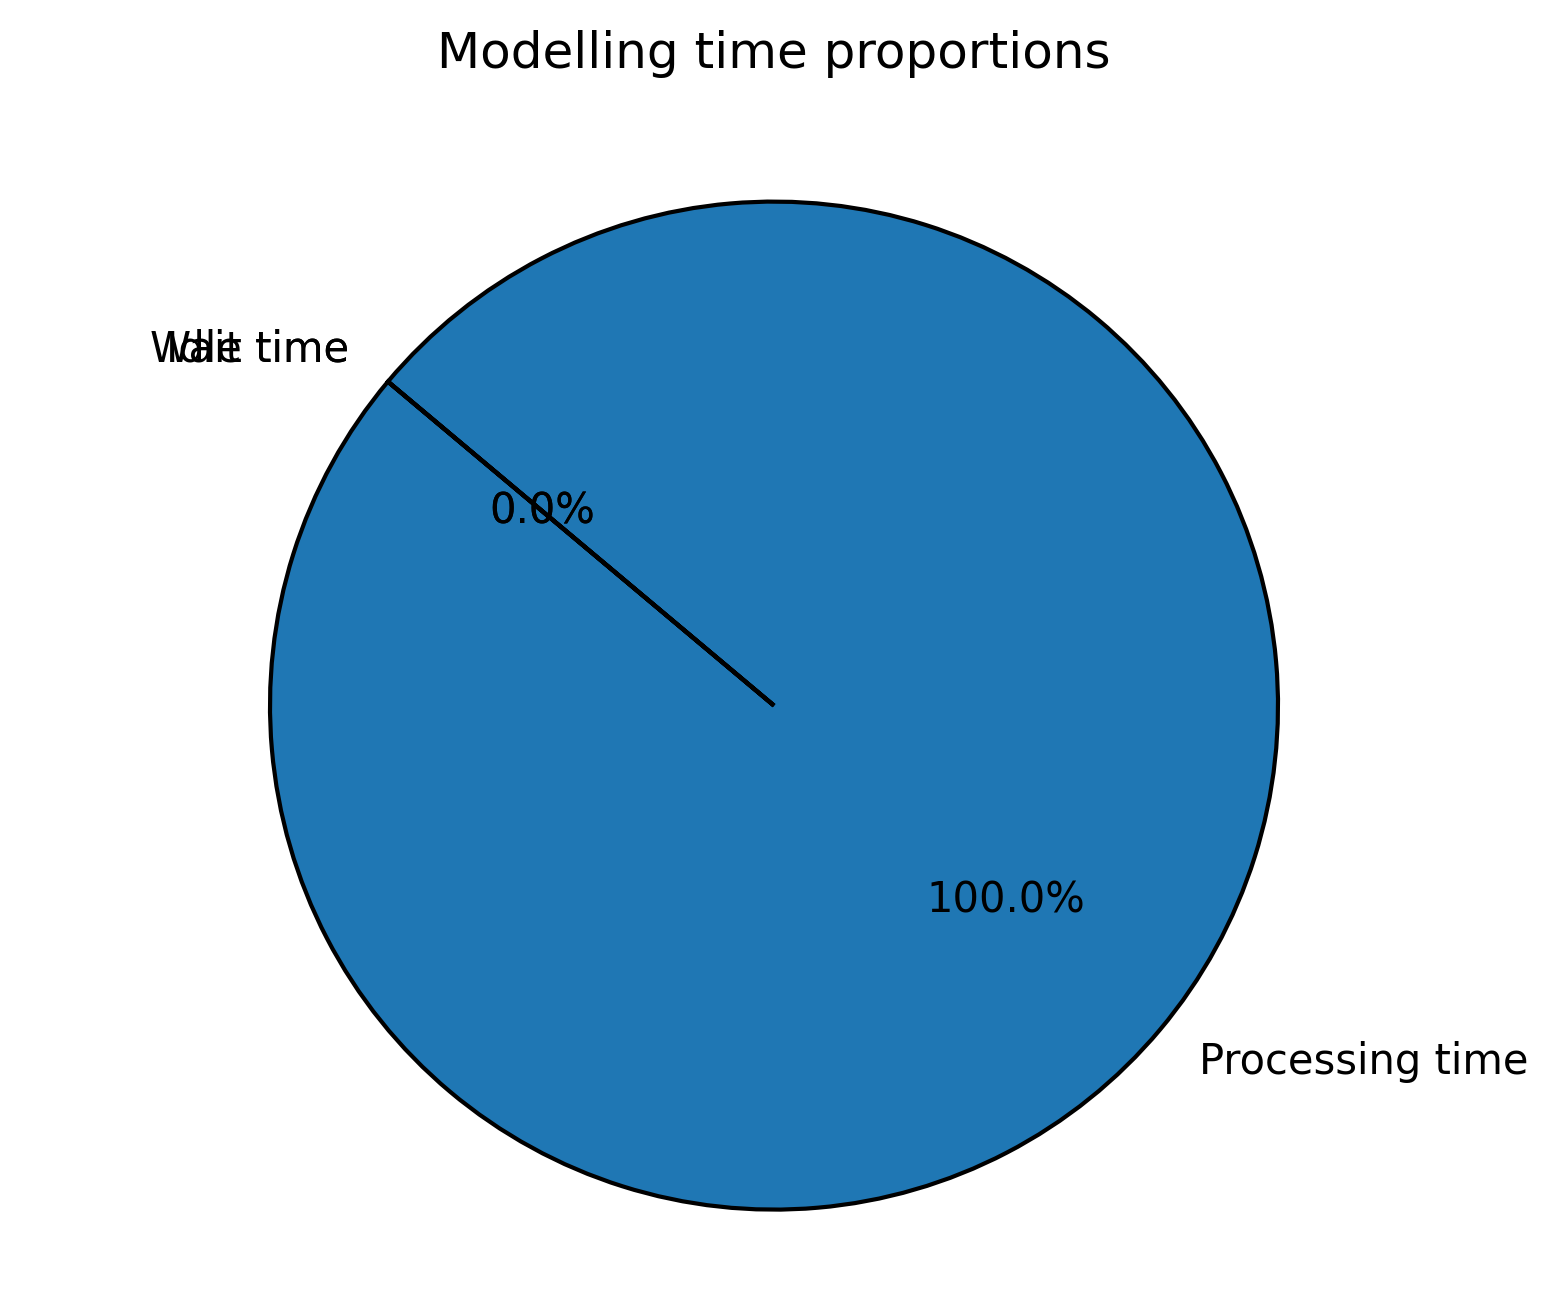
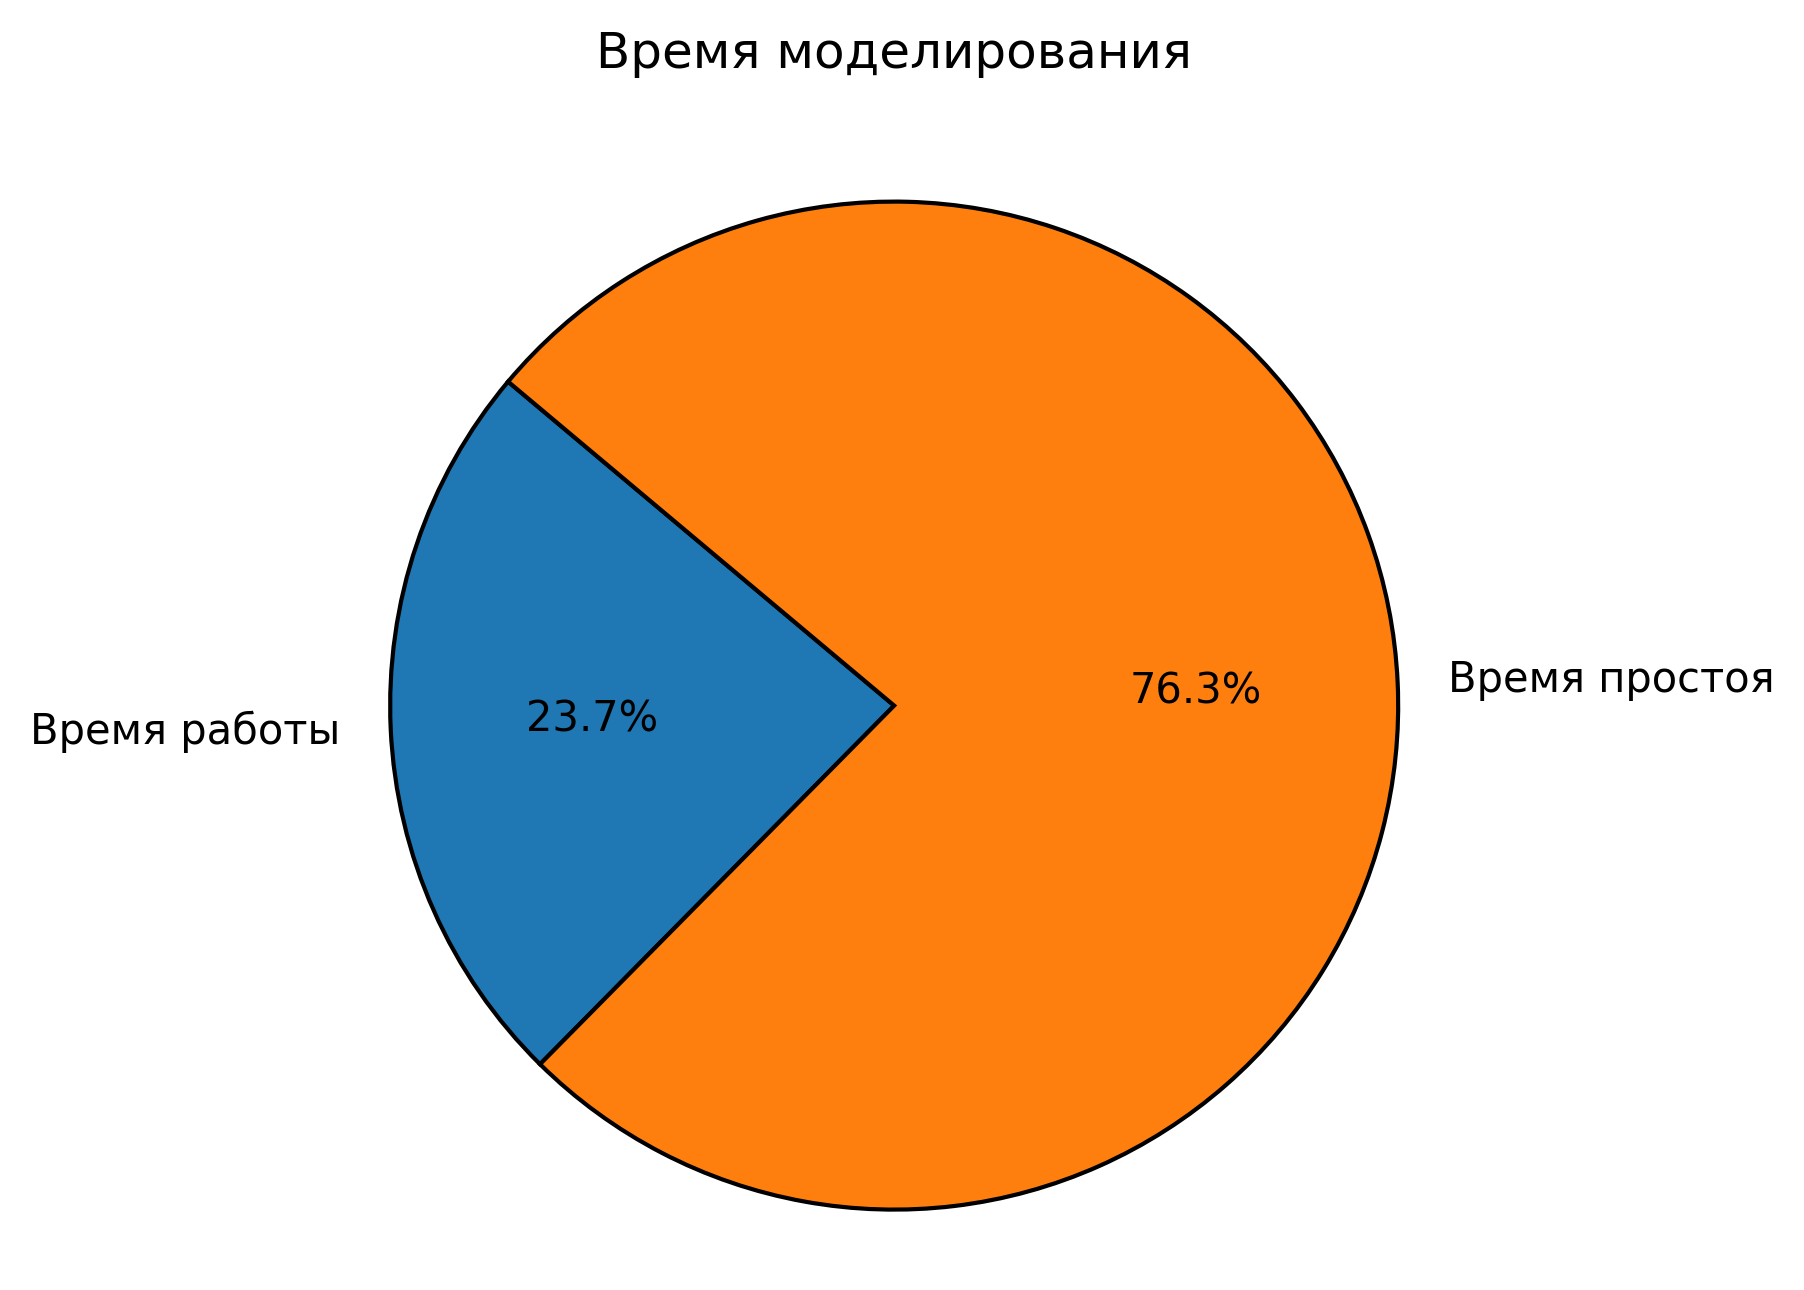
added tests & sample output charts

diff --git a/test/test_plotter.py b/test/test_plotter.py
@@ -1,0 +1,193 @@
+import unittest
+from unittest.mock import patch, MagicMock, call
+import os
+import matplotlib.pyplot as plt
+from src.stats import Stats
+from src.plotter import Plotter, log_draw  # Импортируем декоратор отдельно
+
+class TestPlotter(unittest.TestCase):
+    def setUp(self):
+        """Подготовка тестовых данных"""
+        self.test_stats = Stats(
+            scheduler_total_time=100.0,
+            scheduler_processing_time=80.0,
+            scheduler_idle_time=15.0,
+            scheduler_wait_time=5.0,
+            scheduler_packet_processing_delay=0.005,
+            queue_packet_processing_delays={1: 0.002, 2: 0.003},
+            user_packet_processing_delays={101: 0.001, 102: 0.004},
+            scheduler_throughput=50.5,
+            max_scheduler_throughput=100.0,
+            scheduler_unused_resources=0.3
+        )
+        
+        # Создаем директорию для выходных файлов, если ее нет
+        os.makedirs("output", exist_ok=True)
+
+    def tearDown(self):
+        """Очистка после тестов"""
+        # Удаляем созданные файлы
+        for f in os.listdir("output"):
+            os.remove(os.path.join("output", f))
+        os.rmdir("output")
+
+    @patch("matplotlib.pyplot.bar")
+    @patch("matplotlib.pyplot.tight_layout")
+    @patch("matplotlib.pyplot.title")
+    @patch("matplotlib.pyplot.xlabel")
+    @patch("matplotlib.pyplot.ylabel")
+    @patch("matplotlib.pyplot.savefig")
+    @patch("matplotlib.pyplot.close")
+    def test_draw_queue_packet_processing_delay_pie_chart(
+        self, mock_close, mock_savefig, mock_ylabel, 
+        mock_xlabel, mock_title, mock_tight, mock_bar):
+        """Тест генерации графика задержек в очередях"""
+        plotter = Plotter(self.test_stats)
+        
+        # Меняем декоратор на обычную функцию для теста
+        original_method = plotter.draw_queue_packet_processing_delay_pie_chart.__wrapped__
+        result = original_method(
+            plotter,
+            self.test_stats.scheduler_packet_processing_delay,
+            self.test_stats.queue_packet_processing_delays
+        )
+        
+        # Проверяем вызовы matplotlib
+        mock_bar.assert_called_once()
+        mock_title.assert_called_once_with("Задержка обслуживания пакетов в очередях", pad=20)
+        mock_xlabel.assert_called_once_with("Номер очереди")
+        mock_ylabel.assert_called_once_with("Задержка (мс)")
+        mock_tight.assert_called_once()
+        mock_savefig.assert_called_once()
+        mock_close.assert_called_once()
+        
+        # Проверяем путь сохранения
+        self.assertTrue(result.endswith("output/queue_packet_processing_delay_bar_chart.png"))
+
+    @patch("matplotlib.pyplot.pie")
+    @patch("matplotlib.pyplot.axis")
+    @patch("matplotlib.pyplot.title")
+    @patch("matplotlib.pyplot.savefig")
+    @patch("matplotlib.pyplot.close")
+    def test_draw_modelling_time_pie_chart(
+        self, mock_close, mock_savefig, mock_title, 
+        mock_axis, mock_pie):
+        """Тест генерации круговой диаграммы времени моделирования"""
+        plotter = Plotter(self.test_stats)
+        
+        # Меняем декоратор на обычную функцию для теста
+        original_method = plotter.draw_modelling_time_pie_chart.__wrapped__
+        result = original_method(
+            plotter,
+            self.test_stats.scheduler_processing_time,
+            self.test_stats.scheduler_idle_time,
+            self.test_stats.scheduler_wait_time
+        )
+        
+        # Проверяем параметры pie
+        mock_pie.assert_called_once()
+        args, kwargs = mock_pie.call_args
+        self.assertEqual(kwargs['autopct'], '%1.1f%%')
+        self.assertEqual(kwargs['startangle'], 140)
+        
+        mock_axis.assert_called_once_with('equal')
+        mock_title.assert_called_once_with("Время моделирования", pad=20)
+        mock_savefig.assert_called_once()
+        mock_close.assert_called_once()
+
+    @patch("matplotlib.pyplot.bar")
+    @patch("matplotlib.pyplot.legend")
+    @patch("matplotlib.pyplot.savefig")
+    @patch("matplotlib.pyplot.close")
+    def test_draw_scheduler_throughput_bar_chart(
+        self, mock_close, mock_savefig, mock_legend, mock_bar):
+        """Тест генерации столбчатой диаграммы пропускной способности"""
+        plotter = Plotter(self.test_stats)
+        
+        # Тестовые данные
+        scheduler_throughput = 50.5
+        max_scheduler_throughput = 100.0
+        scheduler_unused_resources = 0.3
+        max_scheduler_resources = 1.0
+        
+        # Вызываем метод
+        result = plotter.draw_scheduler_throughput_bar_chart(
+            scheduler_throughput,
+            max_scheduler_throughput,
+            scheduler_unused_resources,
+            max_scheduler_resources
+        )
+        
+        # Проверяем основные моменты:
+        
+        # 1. Проверяем вызовы bar()
+        # Должно быть 4 вызова (2 группы по 2 столбца)
+        self.assertEqual(mock_bar.call_count, 4)
+        
+        # 2. Проверяем легенду
+        mock_legend.assert_called_once_with(
+            framealpha=0.9,
+            loc='upper left',
+            bbox_to_anchor=(1.02, 1),
+            borderaxespad=0
+        )
+        
+        # 3. Проверяем сохранение файла
+        mock_savefig.assert_called_once()
+        
+        # 4. Проверяем что close вызывался (не проверяем точное количество)
+        self.assertTrue(mock_close.call_count >= 1)
+        
+        # 5. Проверяем возвращаемый путь
+        self.assertTrue(result.endswith("output/scheduler_throughput_bar_chart.png"))
+
+    @patch.object(Plotter, 'draw_modelling_time_pie_chart')
+    @patch.object(Plotter, 'draw_queue_packet_processing_delay_pie_chart')
+    @patch.object(Plotter, 'draw_user_packet_processing_delay_bar_chart')
+    @patch.object(Plotter, 'draw_scheduler_throughput_bar_chart')
+    def test_run_success(
+        self, mock_throughput, mock_user_delay, 
+        mock_queue_delay, mock_time_pie):
+        """Тест успешного выполнения метода run"""
+        plotter = Plotter(self.test_stats)
+        plotter.run()
+        
+        # Проверяем вызовы всех методов отрисовки
+        mock_time_pie.assert_called_once()
+        mock_queue_delay.assert_called_once()
+        mock_user_delay.assert_called_once()
+        mock_throughput.assert_called_once()
+
+    @patch.object(Plotter, 'draw_modelling_time_pie_chart')
+    @patch("builtins.print")
+    def test_run_with_exception(self, mock_print, mock_pie):
+        """Тест обработки исключений в методе run"""
+        # Создаем тестовое исключение
+        test_exception = Exception("Test error")
+        mock_pie.side_effect = test_exception
+        
+        plotter = Plotter(self.test_stats)
+        plotter.run()
+        
+        # Проверяем, что print был вызван с тем же сообщением исключения
+        args, _ = mock_print.call_args
+        self.assertEqual(str(args[0]), "Test error")
+
+    @patch("builtins.print")
+    def test_log_draw_decorator(self, mock_print):
+        """Тест декоратора log_draw"""
+        # Создаем тестовую функцию с декоратором
+        @log_draw
+        def test_func():
+            return "./test/path.png"
+            
+        # Вызываем функцию
+        test_func()
+        
+        # Проверяем вывод
+        mock_print.assert_called_once_with(
+            f"test_func: Done.\nSaved to {os.getcwd()}/test/path.png\n"
+        )
+
+if __name__ == '__main__':
+    unittest.main()

diff --git a/test/test_stats.py b/test/test_stats.py
@@ -1,0 +1,121 @@
+import unittest
+import tempfile
+import os
+from src.stats import Stats, load_stats_from_yaml, yaml
+
+class TestStats(unittest.TestCase):
+    def setUp(self):
+        """Подготовка тестовых данных"""
+        self.test_data = {
+            "scheduler_total_time": 100.0,
+            "scheduler_processing_time": 80.0,
+            "scheduler_idle_time": 15.0,
+            "scheduler_wait_time": 5.0,
+            "scheduler_packet_processing_delay": 0.005,
+            "queue_packet_processing_delays": {1: 0.002, 2: 0.003},
+            "user_packet_processing_delays": {101: 0.001, 102: 0.004},
+            "scheduler_throughput": 50.5,
+            "max_scheduler_throughput": 100.0,
+            "scheduler_unused_resources": 0.3
+        }
+        
+        # Создаем временный YAML файл
+        self.temp_file = tempfile.NamedTemporaryFile(mode='w', delete=False, suffix='.yaml')
+        with open(self.temp_file.name, 'w') as f:
+            yaml.dump(self.test_data, f)
+    
+    def tearDown(self):
+        """Удаление временного файла"""
+        os.unlink(self.temp_file.name)
+
+    def test_stats_initialization(self):
+        """Тест инициализации Stats с полным набором параметров"""
+        stats = Stats(**self.test_data)
+        
+        self.assertEqual(stats.scheduler_total_time, 100.0)
+        self.assertEqual(stats.scheduler_processing_time, 80.0)
+        self.assertEqual(stats.scheduler_idle_time, 15.0)
+        self.assertEqual(stats.scheduler_wait_time, 5.0)
+        self.assertEqual(stats.scheduler_packet_processing_delay, 0.005)
+        self.assertDictEqual(stats.queue_packet_processing_delays, {1: 0.002, 2: 0.003})
+        self.assertDictEqual(stats.user_packet_processing_delays, {101: 0.001, 102: 0.004})
+        self.assertEqual(stats.scheduler_throughput, 50.5)
+        self.assertEqual(stats.max_scheduler_throughput, 100.0)
+        self.assertEqual(stats.scheduler_unused_resources, 0.3)
+
+    def test_stats_default_values(self):
+        """Тест инициализации Stats с пропущенными параметрами"""
+        stats = Stats(
+            scheduler_total_time=100.0,
+            scheduler_processing_time=80.0,
+            scheduler_idle_time=15.0,
+            scheduler_wait_time=5.0,
+            scheduler_packet_processing_delay=0.005,
+            queue_packet_processing_delays={},
+            user_packet_processing_delays={},
+            scheduler_throughput=0.0,
+            max_scheduler_throughput=0.0,
+            scheduler_unused_resources=0.0
+        )
+        
+        self.assertEqual(stats.scheduler_throughput, 0.0)
+        self.assertEqual(stats.max_scheduler_throughput, 0.0)
+        self.assertEqual(stats.scheduler_unused_resources, 0.0)
+        self.assertDictEqual(stats.queue_packet_processing_delays, {})
+        self.assertDictEqual(stats.user_packet_processing_delays, {})
+
+    def test_str_representation(self):
+        """Тест строкового представления объекта Stats"""
+        stats = Stats(**self.test_data)
+        str_repr = str(stats)
+        
+        self.assertIn("scheduler_total_time=100.000000", str_repr)
+        self.assertIn("scheduler_processing_time=80.000000", str_repr)
+        self.assertIn("queue_packet_processing_delays={1: 0.002, 2: 0.003}", str_repr)
+        self.assertIn("user_packet_processing_delays={101: 0.001, 102: 0.004}", str_repr)
+        self.assertIn("scheduler_throughput=50.500000", str_repr)
+
+    def test_load_stats_from_yaml(self):
+        """Тест загрузки данных из YAML файла"""
+        stats = load_stats_from_yaml(self.temp_file.name)
+        
+        self.assertEqual(stats.scheduler_total_time, 100.0)
+        self.assertEqual(stats.scheduler_processing_time, 80.0)
+        self.assertEqual(stats.scheduler_packet_processing_delay, 0.005)
+        self.assertDictEqual(stats.queue_packet_processing_delays, {1: 0.002, 2: 0.003})
+        self.assertEqual(stats.scheduler_throughput, 50.5)
+
+    def test_load_stats_from_missing_yaml(self):
+        """Тест загрузки из несуществующего файла"""
+        with self.assertRaises(FileNotFoundError):
+            load_stats_from_yaml("non_existent_file.yaml")
+
+    def test_load_stats_from_invalid_yaml(self):
+        """Тест загрузки из некорректного YAML"""
+        with tempfile.NamedTemporaryFile(mode='w', suffix='.yaml') as temp_file:
+            temp_file.write("invalid: yaml: content")
+            temp_file.flush()
+            
+            with self.assertRaises(yaml.YAMLError):
+                load_stats_from_yaml(temp_file.name)
+
+    def test_load_stats_with_missing_fields(self):
+        """Тест загрузки YAML с отсутствующими полями"""
+        partial_data = {
+            "scheduler_total_time": 100.0,
+            "scheduler_processing_time": 80.0
+        }
+        
+        with tempfile.NamedTemporaryFile(mode='w', suffix='.yaml') as temp_file:
+            yaml.dump(partial_data, temp_file)
+            temp_file.flush()
+            
+            stats = load_stats_from_yaml(temp_file.name)
+            
+            self.assertEqual(stats.scheduler_total_time, 100.0)
+            self.assertEqual(stats.scheduler_processing_time, 80.0)
+            self.assertEqual(stats.scheduler_throughput, 0.0)  # Должно быть значение по умолчанию
+            self.assertDictEqual(stats.queue_packet_processing_delays, {})
+
+if __name__ == '__main__':
+    unittest.main()

diff --git a/src/plotter.py b/src/plotter.py
@@ -11,8 +11,9 @@ def log_draw(fn):
         path = fn(*args, **kwargs)
         print(f"{fn.__name__}: Done.\n"
               f"Saved to {os.getcwd()}{path[1:]}\n")
-        return
+        return path
 
+    inner.__wrapped__ = fn
     return inner
 
 class Plotter:
